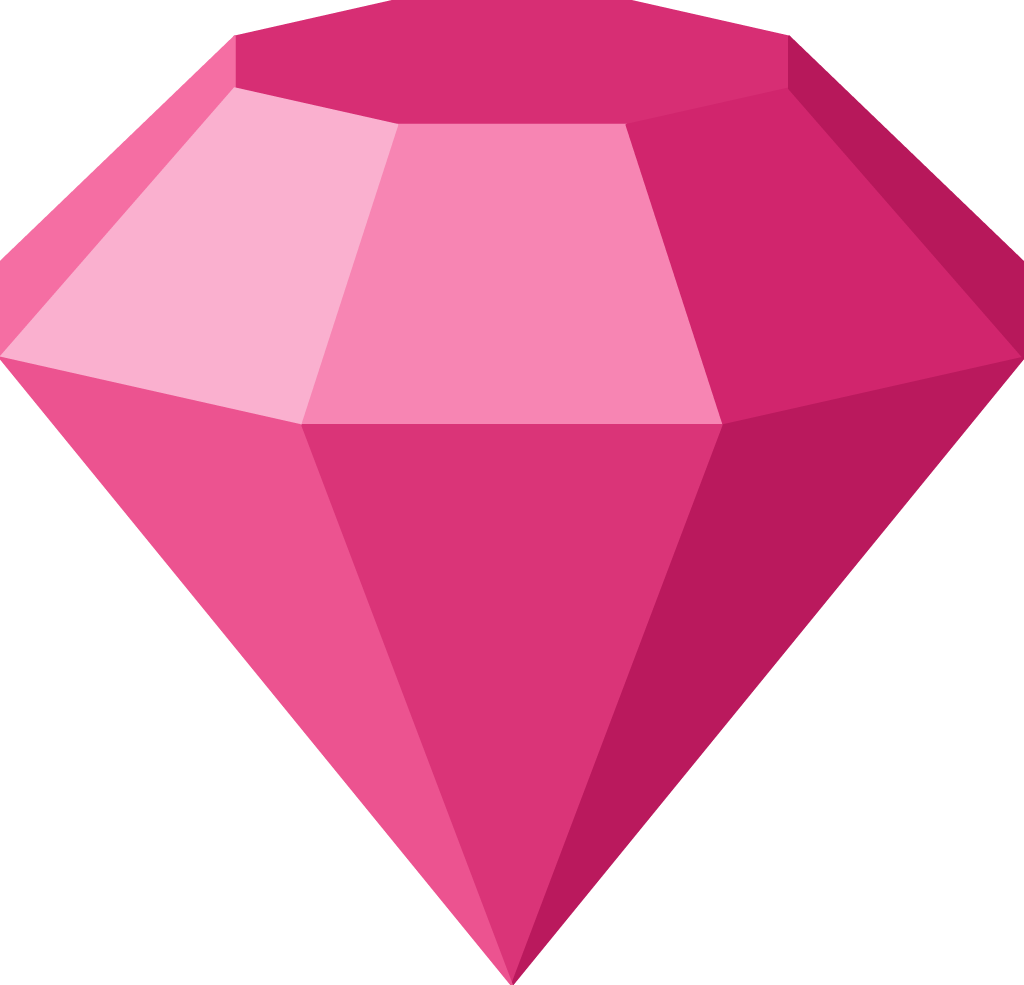
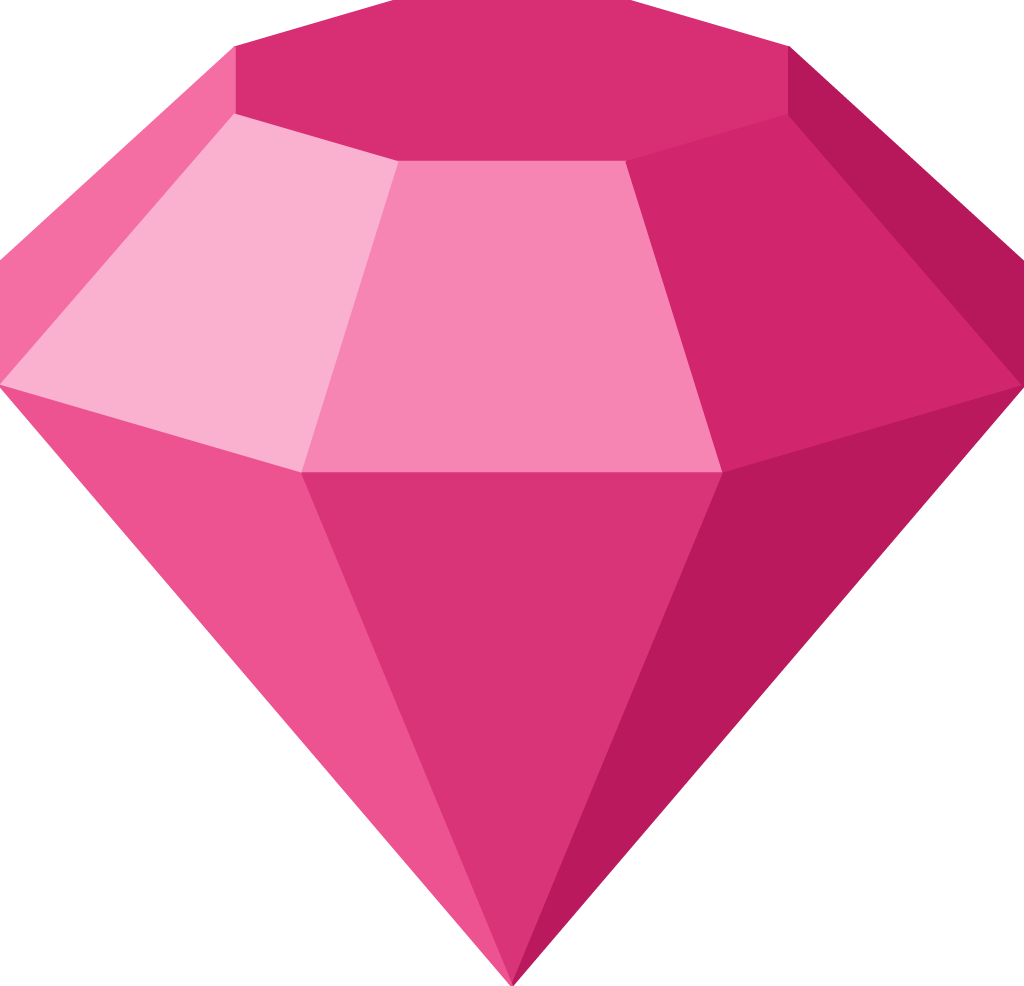
Default pitch to 17
The default mark is now what the playground showed with ?pitch=17: the
stone is seen from a little higher, so more of the table shows.
Regenerated diamond.svg, the PNGs and animations/*.svg.

Claude-Session: https://claude.ai/code/session_01WwDqT9SxRjhmQXWduppqR6

diff --git a/default.ts b/default.ts
@@ -32,7 +32,7 @@ export const DEFAULTS: Required<Omit<DiamondParams, "onWarn">> = {
   pavilionHeight: 300,
   sides: 8,
   cut: "simple",
-  pitch: 13,
+  pitch: 17,
   yaw: 0,
   gap: 0,
   cornerRadius: 0,
